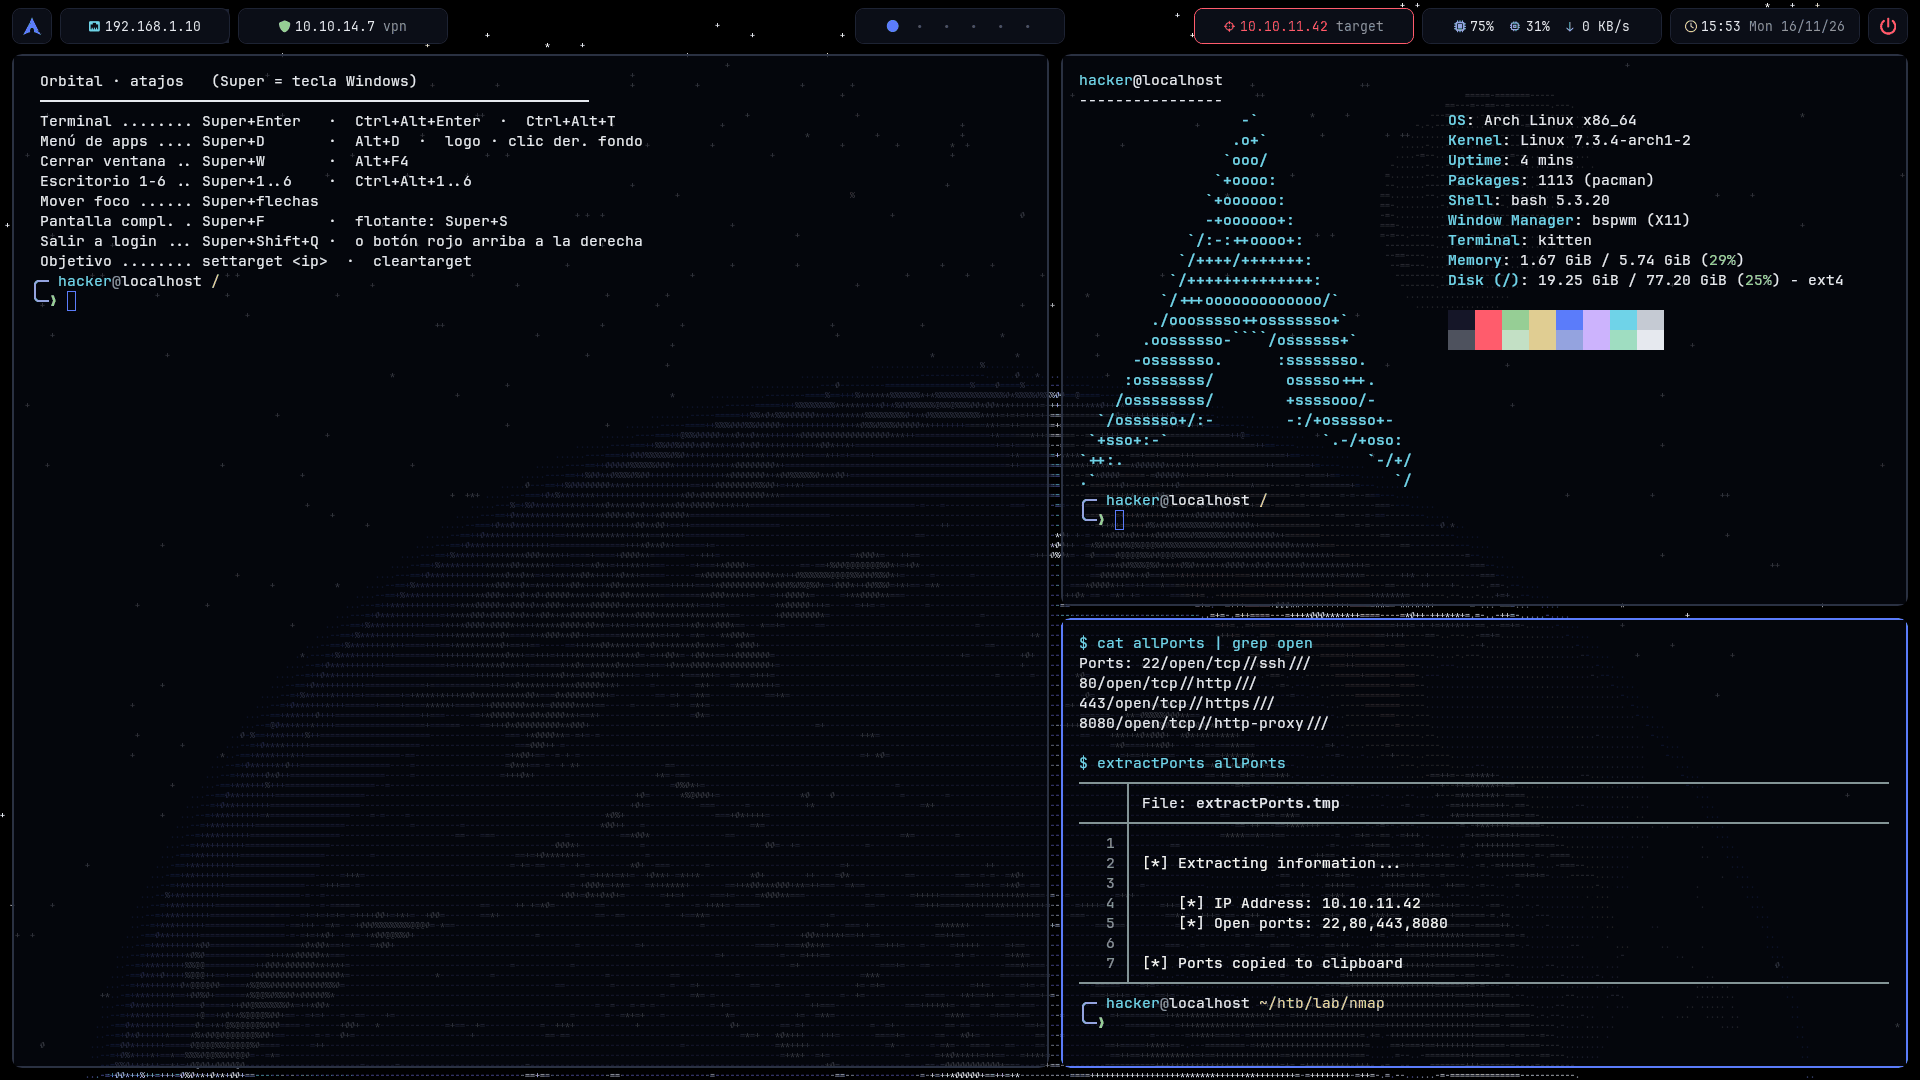
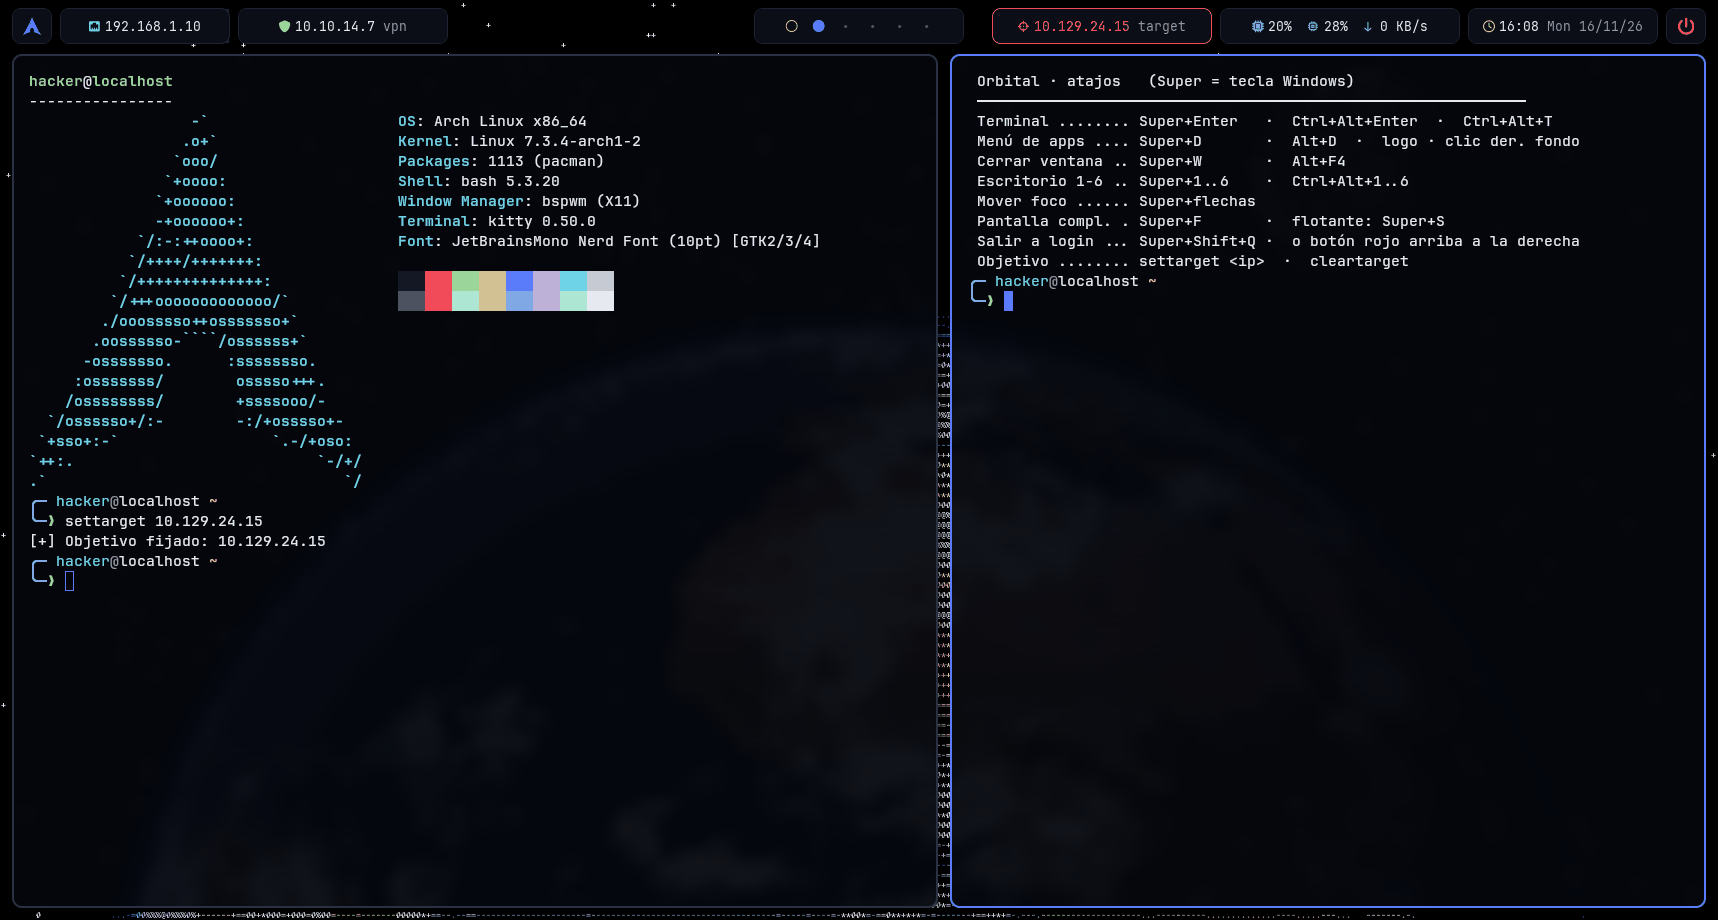
docs: GIF animado y capturas reales de la sesión bspwm
Grabado en la sesión bspwm con datos de ejemplo (usuario hacker, IPs de laboratorio), sin metadatos.

diff --git a/README.md b/README.md
@@ -12,7 +12,7 @@ Estética de terminal verde, barras en píldora y una Tierra ASCII animada de fo
 ![BlackArch](https://img.shields.io/badge/BlackArch-ff4d5e?style=for-the-badge)
 ![Licencia MIT](https://img.shields.io/badge/licencia-MIT-39ff6e?style=for-the-badge)
 
-<img src="docs/screenshots/bspwm.png" alt="Escritorio bspwm con polybar en píldoras y terminales kitty" width="100%">
+<img src="docs/screenshots/bspwm-demo.gif" alt="Demostración animada del escritorio bspwm: terminales kitty, settarget y menú rofi sobre la Tierra ASCII" width="100%">
 
 </div>
 
@@ -45,10 +45,19 @@ Barra en píldoras: red, VPN, escritorios, **objetivo** (IP de la máquina víct
 recursos, reloj y apagado. Funciones de shell para el flujo de trabajo:
 `settarget`, `extractPorts`, `mkt`, `whichsystem`.
 
-La captura de la portada muestra las terminales en mosaico; aquí, el menú de
-aplicaciones (rofi) sobre el fondo animado:
+El GIF de la portada muestra la sesión en movimiento: fondo animado, terminales
+en mosaico, `settarget` actualizando la barra y el menú rofi.
 
-![Menú rofi sobre la Tierra ASCII](docs/screenshots/rofi.png)
+<table>
+  <tr>
+    <td><img src="docs/screenshots/bspwm.png" alt="bspwm con terminales kitty en mosaico"></td>
+    <td><img src="docs/screenshots/rofi.png" alt="Menú rofi sobre las terminales"></td>
+  </tr>
+  <tr>
+    <td align="center">Terminales en mosaico</td>
+    <td align="center">Menú de aplicaciones (rofi)</td>
+  </tr>
+</table>
 
 ### KDE Plasma 6 · Orbital
 
